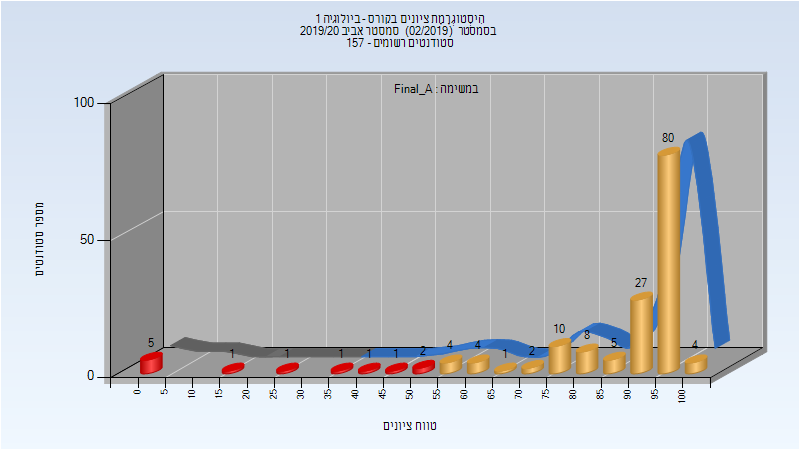
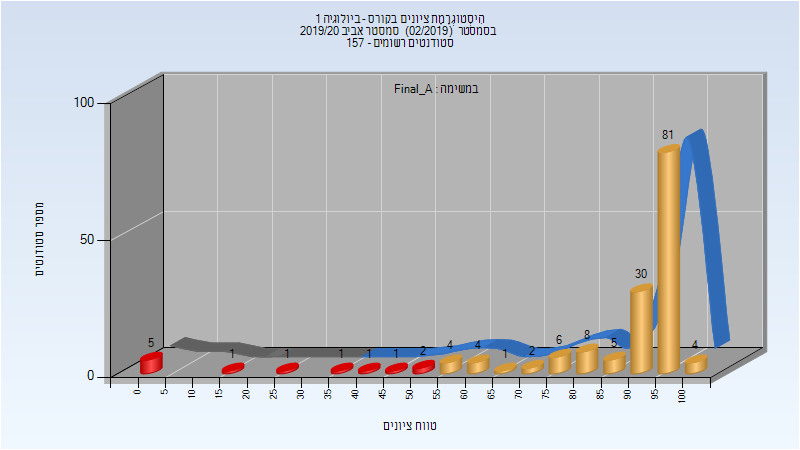
Deploy michael-maltsev/technion-histograms to github.com/michael-maltsev/technion-histograms.git:gh-pages

Changed region(s): [[0.6562, 0.7156, 0.7812, 0.8089], [0.8125, 0.28, 0.875, 0.3422], [0.7812, 0.5911, 0.8438, 0.6844]]

diff --git a/134058/index.html b/134058/index.html
@@ -1935,7 +1935,33 @@
 <td>92</td>
 <td>0</td>
 <td>100</td>
-<td>86.057</td>
+<td>86.51</td>
+<td>95</td>
+</tr>
+</tbody>
+</table>
+<h3>סופי</h3>
+<p><img src="201902/Finals.png" alt="201902 Finals" /></p>
+<table>
+<thead>
+<tr>
+<th>סטודנטים</th>
+<th>עברו/נכשלו</th>
+<th>אחוז עוברים</th>
+<th>ציון מינימלי</th>
+<th>ציון מקסימלי</th>
+<th>ממוצע</th>
+<th>חציון</th>
+</tr>
+</thead>
+<tbody>
+<tr>
+<td>152</td>
+<td>145/7</td>
+<td>95</td>
+<td>19</td>
+<td>100</td>
+<td>88.888</td>
 <td>95</td>
 </tr>
 </tbody>

diff --git a/324445/index.html b/324445/index.html
@@ -761,7 +761,7 @@
 <td>100</td>
 <td>88</td>
 <td>100</td>
-<td>96.176</td>
+<td>96.235</td>
 <td>96</td>
 </tr>
 </tbody>

diff --git a/134058/README.md b/134058/README.md
@@ -612,5 +612,13 @@
 
 | סטודנטים | עברו/נכשלו | אחוז עוברים | ציון מינימלי | ציון מקסימלי | ממוצע | חציון |
 | ---- | ---- | ---- | ---- | ---- | ---- | ---- |
-| 157 | 145/12 | 92 | 0 | 100 | 86.057 | 95 |
+| 157 | 145/12 | 92 | 0 | 100 | 86.51 | 95 |
+
+### סופי
+
+![201902 Finals](201902/Finals.png)
+
+| סטודנטים | עברו/נכשלו | אחוז עוברים | ציון מינימלי | ציון מקסימלי | ממוצע | חציון |
+| ---- | ---- | ---- | ---- | ---- | ---- | ---- |
+| 152 | 145/7 | 95 | 19 | 100 | 88.888 | 95 |
 

diff --git a/324445/README.md b/324445/README.md
@@ -236,5 +236,5 @@
 
 | סטודנטים | עברו/נכשלו | אחוז עוברים | ציון מינימלי | ציון מקסימלי | ממוצע | חציון |
 | ---- | ---- | ---- | ---- | ---- | ---- | ---- |
-| 68 | 68/0 | 100 | 88 | 100 | 96.176 | 96 |
+| 68 | 68/0 | 100 | 88 | 100 | 96.235 | 96 |
 
